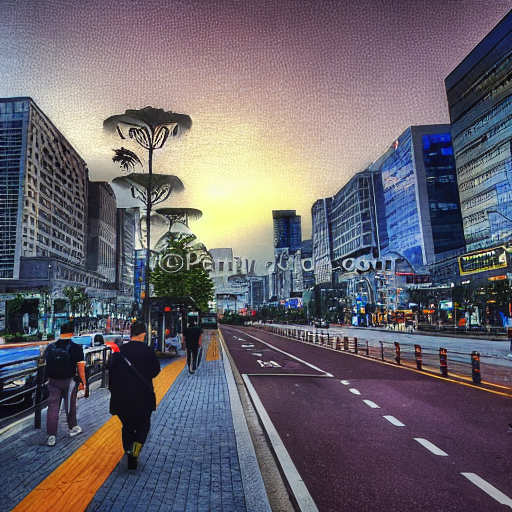
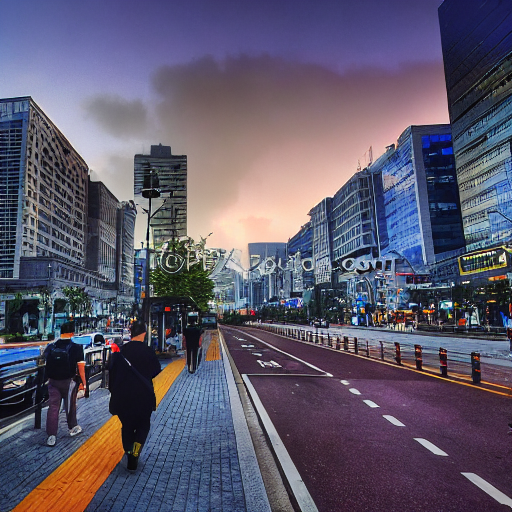
feat: 파일 자동 감지 기능 추가

diff --git a/ai/sunset/test.py b/ai/sunset/test.py
@@ -1,0 +1,104 @@
+import torch
+from PIL import Image
+import numpy as np
+import cv2
+import os
+from transformers import SegformerForSemanticSegmentation, SegformerImageProcessor
+from diffusers import StableDiffusionInpaintPipeline
+
+
+SAVE_DIR = "../results"
+os.makedirs(SAVE_DIR, exist_ok=True)
+
+
+# SegFormer 고품질 모델 (b3)
+model_id = "nvidia/segformer-b3-finetuned-cityscapes-1024-1024"
+seg_model = SegformerForSemanticSegmentation.from_pretrained(model_id)
+seg_processor = SegformerImageProcessor.from_pretrained(model_id)
+
+
+pipe = StableDiffusionInpaintPipeline.from_pretrained(
+    "runwayml/stable-diffusion-inpainting",
+    torch_dtype=torch.float16,
+    safety_checker=None,
+).to("cuda")
+
+
+def preprocess(img: Image.Image, size=(1024, 1024)):
+    img = img.convert("RGB")
+    img = img.resize(size)
+    return img
+
+
+def postprocess_mask(mask_np, size):
+    width, height = size
+    mask_resized = cv2.resize(mask_np.astype(np.uint8), (width, height), interpolation=cv2.INTER_NEAREST)
+    kernel = cv2.getStructuringElement(cv2.MORPH_ELLIPSE, (5, 5))
+    mask_closed = cv2.morphologyEx(mask_resized, cv2.MORPH_CLOSE, kernel)
+    mask_opened = cv2.morphologyEx(mask_closed, cv2.MORPH_OPEN, kernel)
+    return mask_opened.astype(bool)
+
+
+def blend_sunset_on_sky(original_img_np, sky_mask, sunset_img_pil, alpha=0.7):
+    h, w = original_img_np.shape[:2]
+    sunset_img_resized = sunset_img_pil.resize((w, h))
+    sunset_img_np = np.array(sunset_img_resized)
+    sky_mask_3c = np.stack([sky_mask]*3, axis=-1)
+    blended_img = original_img_np.copy()
+    blended_img[sky_mask_3c] = (
+        alpha * sunset_img_np[sky_mask_3c] + (1 - alpha) * original_img_np[sky_mask_3c]
+    ).astype(np.uint8)
+    return blended_img
+
+
+def blend_mask_colors(original_img_np, blended_img_np, sky_mask, alpha=0.3):
+    mask_3c = np.stack([sky_mask]*3, axis=-1)
+    output_img = blended_img_np.copy()
+    output_img[mask_3c] = (alpha * blended_img_np[mask_3c] + (1 - alpha) * original_img_np[mask_3c]).astype(np.uint8)
+    return output_img
+
+
+def sunset_blend(original_path, sunset_path, alpha=0.7, prompt="dawn view, early morning soft light, misty atmosphere, calm and serene"):
+    orig_img = preprocess(Image.open(original_path), size=(1024, 1024))
+    sunset_img = Image.open(sunset_path).convert("RGB").resize((1024, 1024))
+
+    orig_size = (1024, 1024)
+
+    inputs = seg_processor(images=orig_img, return_tensors="pt")
+    seg_model.eval()
+    with torch.no_grad():
+        outputs = seg_model(**inputs)
+        mask = torch.argmax(outputs.logits.squeeze(), dim=0).cpu().numpy()
+
+    sky_mask = (mask == 10)
+    sky_mask_clean = postprocess_mask(sky_mask, orig_size)
+
+    img_np = np.array(orig_img)
+    blended_np = blend_sunset_on_sky(img_np, sky_mask_clean, sunset_img, alpha=alpha)
+    blended_np = blend_mask_colors(img_np, blended_np, sky_mask_clean, alpha=0.3)
+    blended_pil = Image.fromarray(blended_np).resize((512, 512))  # SD 입력 크기
+
+    # 마스크 생성 및 블러 처리 (Gaussian Blur)
+    mask_for_inpaint = (sky_mask_clean.astype(np.uint8) * 255)
+    mask_for_inpaint = cv2.GaussianBlur(mask_for_inpaint, (15, 15), 0)
+    mask_img = Image.fromarray(mask_for_inpaint).convert("L").resize((512, 512))
+
+    inpaint_result = pipe(
+        prompt=prompt,
+        image=blended_pil,
+        mask_image=mask_img,
+        guidance_scale=10.0,
+        num_inference_steps=50,
+    ).images[0]
+
+    save_path = os.path.join(SAVE_DIR, "test_sunset_blend_refined.png")
+    inpaint_result.save(save_path)
+    print(f"Result saved to {save_path}")
+
+
+if __name__ == "__main__":
+    # 여기서 입력 이미지 파일 경로를 지정하세요
+    original_image_path = "../input/road_img.jpg"
+    sunset_image_path = "../input/sunset_image.jpg"
+
+    sunset_blend(original_image_path, sunset_image_path)

diff --git a/ai/removehuman/test.py b/ai/removehuman/test.py
@@ -1,0 +1,98 @@
+from ultralytics import YOLO
+import numpy as np
+import cv2
+import os
+from PIL import Image
+import torch
+from diffusers import StableDiffusionInpaintPipeline
+import sys
+
+
+# CUDA 및 PyTorch 연동 확인
+print("Torch version:", torch.__version__)
+print("CUDA available:", torch.cuda.is_available())
+print("Device count:", torch.cuda.device_count())
+device_type = "cuda" if torch.cuda.is_available() else "cpu"
+print(f"Using device: {device_type}")
+
+
+# Stable Diffusion Inpaint pipeline GPU 로드
+pipe = StableDiffusionInpaintPipeline.from_pretrained(
+    "stabilityai/stable-diffusion-2-inpainting",
+    torch_dtype=torch.float16 if device_type == "cuda" else torch.float32
+)
+pipe = pipe.to(device_type)
+
+
+def inpaint_image(image_np, mask_np):
+    input_height, input_width = image_np.shape[:2]
+    image_pil = Image.fromarray(cv2.cvtColor(image_np, cv2.COLOR_BGR2RGB))
+    mask_pil = Image.fromarray(mask_np).convert("L")
+
+    target_size = (512, 512)
+    image_pil_resized = image_pil.resize(target_size, Image.LANCZOS)
+    mask_pil_resized = mask_pil.resize(target_size, Image.NEAREST)
+
+    result = pipe(
+        prompt="natural outdoor landscape, seamless realistic background",
+        image=image_pil_resized,
+        mask_image=mask_pil_resized,
+        guidance_scale=7.5,
+        num_inference_steps=50
+    ).images[0]
+
+    result = result.resize((input_width, input_height), Image.LANCZOS)
+    return result
+
+
+# bounding box 확대 함수: scale은 확장 비율(예: 0.1 → 10%)
+def expand_box(box, image_shape, scale=0.1):
+    x1, y1, x2, y2 = box
+    w = x2 - x1
+    h = y2 - y1
+
+    x1_new = max(int(x1 - w * scale), 0)
+    y1_new = max(int(y1 - h * scale), 0)
+    x2_new = min(int(x2 + w * scale), image_shape[1] - 1)
+    y2_new = min(int(y2 + h * scale), image_shape[0] - 1)
+
+    return x1_new, y1_new, x2_new, y2_new
+
+
+# YOLO 객체 탐지 모델 (기본 yolov8n)
+yolo_model = YOLO('yolov8n.pt')
+
+SAVE_DIR = "../results"
+os.makedirs(SAVE_DIR, exist_ok=True)
+
+
+def remove_person_from_image(image_path):
+    image = cv2.imread(image_path)
+    if image is None:
+        raise ValueError("Invalid image path or image cannot be loaded.")
+
+    height, width = image.shape[:2]
+    mask = np.zeros((height, width), np.uint8)
+
+    results = yolo_model.predict(image)
+
+    for r in results:
+        for box, cls in zip(r.boxes.xyxy, r.boxes.cls):
+            if int(cls) == 0:  # 사람 클래스만
+                box_expanded = expand_box(box, image.shape, scale=0.1)  # 10% bbox 확장
+                x1, y1, x2, y2 = map(int, box_expanded)
+                mask[y1:y2, x1:x2] = 255
+
+    out = inpaint_image(image, mask)
+    save_path = os.path.join(SAVE_DIR, "test_human_remove.png")
+    out.save(save_path, format="PNG")
+    print(f"Result saved to {save_path}")
+
+
+
+if __name__ == "__main__":
+    if len(sys.argv) < 2:
+        print("Usage: python removehuman.py <image_path>")
+        sys.exit(1)
+    image_path = sys.argv[1]
+    remove_person_from_image(image_path)
